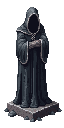
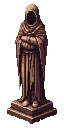
소품 아홉을 «그 색으로» 굽고 필터를 지운다 — 분칠을 그만둔다 (V-161)
병수님 2026-08-30 08:33 「에셋 픽셀랩 써서 제대로 뽑아라, 맵에 오브젝트들
둥둥 떠 있는 거 좀 조치하고」.

수로 먼저 확인: 소품은 전부 파랗게 구워져 있었고(R−B 기둥 −13.9 · 항아리 −27.5)
바닥은 따뜻했다(+3.7~+31.7). 그런데 상자 +47.0 · 화로 +51.8 은 따뜻했다 —
그 둘만 제 색을 맨 앞 대문자로 세웠기 때문이다. 원인은 프롬프트에 있었다.

· decor.py 에 TONE_WARM 을 세우고 소품 아홉을 재굽기 → R−B +22~+41 (바닥 띠 안)
· hs/main.js 의 PROP_WARM 필터 제거 — 화면에서 덧칠하지 않는다
· ONE 에 바닥판 부정어를 옮겨 wall.png 의 풀 154px → 0px
· tools/hs_warmcheck.py — 따뜻함 띠 · 바닥 대비 · G−B 분홍 가드. 최종 9/9,
  같은 자로 1차(주황) 굽기는 0/9. 만드는 동안 자가 세 번 틀렸고 그때마다
  문턱을 미는 대신 자를 갈았다.
· tools/hs_prop_shot.mjs — 소품을 한 줄로 세워 색·접지를 보는 컷

★ 정직하게: 「둥둥 뜬다」는 이번 굽기가 고친 게 아니다. 옛/새 에셋의 바닥판
벌어짐이 4.2% vs 3.1% 로 이미 작았다 — 진짜 원인은 그림자 놓는 자리였고
8b129f0 이 이미 닫았다. 굽기가 고친 것은 색과 wall 의 풀이다.

diff --git a/hs/main.js b/hs/main.js
@@ -763,7 +763,12 @@ function spriteFoot(im, key) {
   return box;
 }
 
-const PROP_WARM = "sepia(0.9) saturate(1.55) hue-rotate(-12deg)";
+// ★★ V-160 — `PROP_WARM` 필터를 **지웠다**. 병수님 2026-08-30 08:33:
+//   「에셋 픽셀랩 써서 제대로 뽑아라」. 여태 소품 아홉 장을 **찬 회색으로 굽고**
+//   화면에서 sepia 로 덧칠해 왔다 — 그건 고침이 아니라 분칠이고, 밝기까지 눌러 탁해진다.
+//   이제 `decor.py --warm` 이 그 색으로 **처음부터 굽는다**(구운 뒤 R−B: 기둥 −13.9→+31.1 ·
+//   항아리 −27.5→+31.5 · 관 −23.2→+22.2 · 잡석 −21.0→+39.5 — 바닥 띠 +4~+32 안).
+//   판정은 `tools/hs_warmcheck.py`(따뜻함 띠 · 바닥 대비 · 분홍 가드) 가 9/9 로 했다.
 function drawProps() {
   const vis = G.props.filter((pr) => onScreen(pr.x, pr.y, 200));
   vis.sort((a, b) => a.y - b.y);
@@ -778,15 +783,7 @@ function drawProps() {
     ctx.globalAlpha = 0.42; ctx.fillStyle = "#000";
     ctx.beginPath(); ctx.ellipse(sx, sy, rx, Math.min(rx * 0.4, pr.h * 0.18), 0, 0, 6.283); ctx.fill();
     ctx.globalAlpha = 1;
-    // ★ V-159 — V-158 이 «찬 회색 돌»을 계단 테두리에서만 고쳤다. 같은 병이 소품 전부에
-    //   있었다 — 화면에서 재보니 누운 기둥 R−B +2 · 항아리 −6(파랑이다) 인데
-    //   바닥은 +21~31 이라, 소품만 따뜻한 방 안에서 푸른기로 떠 있었다.
-    //   밝기는 건드리지 않고(이미 어둡다) 색조만 따뜻한 돌로 태운다.
-    //   불을 달고 오는 화로(brazier)는 뺀다 — 거기에 쓰면 불꽃이 죽는다.
-    //   ([[carry-fixes-forward]] — 한 번 고친 규칙을 새 요소에 안 옮긴 바로 그 결이다.)
-    if (!pr.brazier) ctx.filter = PROP_WARM;
     ctx.drawImage(im, pr.x - w / 2, pr.y - pr.h, w, pr.h);
-    ctx.filter = "none";
   }
 }
 

diff --git a/tools/pixellab/decor.py b/tools/pixellab/decor.py
@@ -27,11 +27,39 @@ for _a in sys.argv[1:]:
     if _a.startswith("--out="):
         OUT = os.path.abspath(os.path.join(ROOT, _a[6:]))
 
-TONE = ("MEDIUM GREY STONE AND BONE, desaturated, moderate contrast, evenly lit, "
-        "no vignette, no shadows baked in, "
-        "absolutely no blue, no purple, no violet, no teal, no green, "
-        "Diablo 2 crypt, grim gothic pixel art")
-ONE  = ("ONE single object only, centered, transparent background, "
+# ── 색 ──────────────────────────────────────────────────────────────────────
+# ★★ V-160(병수님 2026-08-30 08:33 「에셋 픽셀랩 써서 제대로 뽑아라」) —
+#   지금까지 열 장을 **찬 회색**으로 구워 놓고 화면에서 `PROP_WARM` 필터로 덧칠해 왔다.
+#   그건 고침이 아니라 **분칠**이다. 소품 R−B 를 재 보면 사실이 그대로 나온다:
+#       바닥  crypt +3.7 · bone +31.7 · rot +31.2   ← 따뜻하다
+#       소품  기둥 −13.9 · 항아리 −27.5 · 관 −23.2 · 잡석 −21.0   ← **파랗다**
+#   그런데 같은 파이프라인으로 구운 상자 +47.0 · 화로 +51.8 은 따뜻하다.
+#   갈린 자리는 하나뿐이다 — **그 둘만 제 색을 맨 앞 대문자로 세웠다.**
+#   그래서 `--warm` 은 공용 회색을 버리고 상자가 통한 그 꼴을 그대로 쓴다.
+#   (「grey」를 남겨 두면 굽는 쪽이 그것을 청회색으로 읽는다 — 낱말째 뺀다.)
+TONE_COLD = ("MEDIUM GREY STONE AND BONE, desaturated, moderate contrast, evenly lit, "
+             "no vignette, no shadows baked in, "
+             "absolutely no blue, no purple, no violet, no teal, no green, "
+             "Diablo 2 crypt, grim gothic pixel art")
+# ★ 1차 --warm 이 **넘어갔다**(09:4x): R−B 를 +47~+79 로 올렸는데 바닥은 +3.7~+31.7 이다.
+#   컷을 열어 보니 벽이 붉은 벽돌 · 누운 기둥이 주황 파이프 · 해골이 금박이 됐다.
+#   문턱만 두고 **천장을 안 둔** 자 탓이다 — 따뜻하게가 아니라 «바닥과 같은 온도로».
+TONE_WARM = ("WEATHERED BROWN GREY STONE AND OLD YELLOWED BONE, dusty warm grey, "
+             "muted earth tones, dark and grimy, low saturation, faded, "
+             "moderate contrast, evenly lit, no vignette, no shadows baked in, "
+             "absolutely no blue, no steel blue, no grey blue, no cold grey, "
+             "no purple, no violet, no teal, no green, "
+             "not orange, not gold, not yellow, not bright, not clean, not new, "
+             "Diablo 2 crypt, grim gothic pixel art")
+WARM = "--warm" in sys.argv
+TONE = TONE_WARM if WARM else TONE_COLD
+# ★ 굽는 쪽은 늘 **제 바닥판을 달아 보낸다**([[sprite-brings-its-own-ground]]).
+#   1차 굽기에서 항아리·잡석 밑에 흙·자갈이 딸려 왔다 — 그게 접지선을 아래로 끈다.
+#   상자 조리법에만 있던 부정어를 **전부에 옮긴다**([[carry-fixes-forward]]).
+ONE  = ("ONE single object only, centered, "
+        "floating alone on empty transparent background, "
+        "no grass, no dirt, no soil, no plants, no moss, no scattered pebbles, "
+        "no ground, no floor, no base under it, "
         "not a sheet, no grid of items, no duplicates, no text, no numbers")
 
 PARTS = {
@@ -39,13 +67,15 @@ PARTS = {
   "wall": (f"{TONE}, {ONE}, a straight horizontal section of ancient stone dungeon wall "
            "seen from slightly above, big rough blocks with deep mortar joints, "
            "flat top edge, the left and right ends are cut off mid-block so copies tile "
-           "edge to edge, no corners, no end caps, no doorway", 128, 64),
+           "edge to edge, no corners, no end caps, no doorway, "
+           "big irregular quarried stone blocks, NOT red brick, not brickwork", 128, 64),
   # ── 기둥 ── 세로로 선 것. 공간에 높이를 준다.
   "pillar": (f"{TONE}, {ONE}, a tall broken stone column standing upright, cracked shaft, "
              "chipped capital, crumbling base, vertical, full body", 64, 128),
   # ── 소품 넷 ── 사람이 살았던(죽었던) 자리라는 표시
   "coffin": (f"{TONE}, {ONE}, a heavy stone sarcophagus lying on the ground seen from above "
-             "at an angle, cracked lid slightly pushed aside, carved edge", 96, 64),
+             "at an angle, cracked lid slightly pushed aside, carved edge, "
+             "solid carved STONE, not wooden planks", 96, 64),
   "bones":  (f"{TONE}, {ONE}, a small pile of pale skulls and bones heaped on the ground, "
              "seen from above at an angle, low and wide", 64, 48),
   "brazier": (f"{TONE}, {ONE}, an iron brazier bowl on three legs with dim orange embers "
@@ -57,12 +87,20 @@ PARTS = {
   #     **누운 것의 생김새**를 말해야 한다 — 「쓰러진 나무처럼」.
   "column2": (f"{TONE}, {ONE}, a toppled stone column lying flat on the ground like a felled "
               "tree trunk, broken apart into three round drum segments that lie end to end "
-              "with gaps between them, seen from above at an angle, long and low, horizontal",
+              "with visible gaps between them, cracked stone, NOT a smooth pipe, not a tube, "
+              "not a log, not wood, seen from above at an angle, long and low, horizontal",
               96, 48),
   #   ★ 「skeleton」 하나만 쓰면 서 있는 해골이 온다 — **누워 흩어진 것**임을 말한다.
+  #   ★ V-160 2차 — 공용 TONE_WARM 의 「dark and grimy」가 **뼈까지 태웠다**(밝기 −36%,
+  #     어두운 방에서 안 읽힌다). 뼈는 밝아야 하는 것이니 상자·계단처럼 제 색을 앞에 세운다.
   "bones2": (f"{TONE}, {ONE}, a single human skeleton sprawled flat on its back on the ground, "
              "ribcage open, arms flung out to the sides, skull turned aside, seen from above "
-             "at an angle, spread wide and flat", 64, 48),
+             "at an angle, spread wide and flat, "
+             # ★ 3차: 제 색("PALE IVORY")을 앞에 세웠더니 **분홍 해골**이 왔다(G 꺼짐 +21).
+             #   형제인 bones 는 공용 TONE_WARM 으로 크림색이 잘 나왔으니 그리로 되돌리고,
+             #   「어둡지 않게」만 덧붙인다 — TONE_WARM 의 "dark and grimy" 가 뼈를 태웠던 것.
+             "pale weathered bone, light coloured against the dark floor, "
+             "not dark, not black, not burnt, not pink, not red, not magenta", 64, 48),
   #   ★ 항아리는 **불이 없다** — 화로와 갈리는 자리가 그것이다.
   "urn": (f"{TONE}, {ONE}, a cracked stone burial urn standing upright on the ground, "
           "round wide belly, narrow neck, heavy chipped lid tilted on top, "
@@ -102,9 +140,22 @@ PARTS = {
              "no grass, no dirt, no plants, no moss, no railing, no door, no arch, no text",
              72, 72),
   #   ★ 석상은 기둥과 키가 같아 **머리 없는 사람 모양**이라야 갈린다.
-  "statue": (f"{TONE}, {ONE}, a weathered stone statue of a hooded mourning figure standing "
-             "on a square plinth, the head broken off leaving a jagged stump at the neck, "
-             "robes carved in deep folds, arms crossed over the chest, vertical, full body",
+  #   ★ V-160 — 공용 TONE_WARM 으로도 석상만 **찬 회색**으로 왔다(R−B +17.4, 아홉 중 꼴찌).
+  #     화면에 세워 보니 따뜻한 바닥 위에서 저 혼자 파랗게 떴다. 상자·계단이 통한 꼴대로
+  #     **제 색을 맨 앞 대문자로** 세운다 — 공용 회색을 덮는 자리가 거기다.
+  "statue": ("WEATHERED WARM BROWN SANDSTONE, dusty tan stone, muted earth tones, "
+             "dark and grimy, low saturation, faded, moderate contrast, evenly lit, "
+             "no vignette, no shadows baked in, "
+             "absolutely no blue, no steel blue, no grey blue, no cold grey, no slate, "
+             "no purple, no violet, no teal, no green, "
+             "not orange, not gold, not bright, not clean, "
+             f"Diablo 2 crypt, grim gothic pixel art, {ONE}, "
+             "a weathered stone statue of a hooded mourning figure standing "
+             "on a square plinth, the head COMPLETELY broken off and missing, only a jagged "
+             "broken stump at the neck, headless, no face, no hood on top, "
+             "robes carved in deep folds, arms crossed over the chest, vertical, full body, "
+             "the plinth sits on nothing, empty transparent background below it, "
+             "no grass, no green, no plants, no weeds, no moss, no soil, no ground",
              64, 128),
 }
 

diff --git a/tools/hs_warmcheck.py b/tools/hs_warmcheck.py
@@ -1,0 +1,86 @@
+#!/usr/bin/env python3
+"""V-160 — «따뜻하게 구웠나»를 눈이 아니라 수로 판정한다.
+
+병수님 2026-08-30 08:33: 「에셋 픽셀랩 써서 제대로 뽑아라」.
+지금까지는 찬 회색으로 굽고 화면에서 `PROP_WARM` 필터로 덧칠했다 — 그건 분칠이다.
+
+자: 불투명하고 보이는 픽셀의 평균 **R−B**.
+  · 바닥 crypt +3.7 · bone +31.7 · rot +31.2  ← 방이 이 온도다
+  · 제 색을 맨 앞에 세워 구운 상자 +47.0 · 화로 +51.8  ← 통한 것들
+  · 공용 회색으로 구운 나머지 −8 ~ −27          ← 파랗다
+문턱 +20 — 바닥의 따뜻한 쪽(bone/rot)에 닿는 자리. [[floor-far-from-threshold]]
+
+밝기도 같이 본다. 색만 맞추고 어두워지면 «분칠»과 같은 병이다(필터가 밝기를 눌렀다).
+"""
+import glob, os, sys
+from PIL import Image
+
+# ★★ 1차 굽기(09:4x)가 이 자를 «통과»하고도 눈으로 보면 틀렸다 — R−B 를 +47~+79 로
+#   올려 놓고 8/9 OK 가 나왔다. 문턱만 있고 **천장이 없었던** 탓이다.
+#   목표는 「따뜻하게」가 아니라 **「바닥과 같은 온도로」** 다. 그러니 띠로 잰다:
+#       bone +31.7 · rot +31.2 · blood +20.3 · crypt +3.7  → 방의 띠는 대략 +4 ~ +32
+#   소품은 바닥보다 조금 더 따뜻해도 되니 위를 +42 까지 연다(상자 +47 은 나무라 예외).
+#   밝기도 양쪽으로 막는다 — 어두워지면 탁하고, 밝아지면 어두운 방에서 «떠오른다».
+WARM_MIN, WARM_MAX = 12.0, 42.0
+# ★ 밝기의 아래쪽은 «옛것 대비»로 재면 안 된다 — **옛것이 틀렸을 때** 틀린 것이 기준이 된다.
+#   bones2 옛값 148.9 는 「찬 흰색 해골」이라 목표가 아니다(형제 bones 는 115.3).
+#   어두워짐이 진짜 문제인 까닭은 하나뿐이다 — **어두운 바닥에서 안 보이는 것**.
+#   그러니 아래쪽은 바닥(crypt 밝기 43.0)과의 거리로 재고, 위쪽만 옛것 대비로 막는다
+#   (1차 굽기가 +44~+81% 로 «떠올랐던» 그 자리).
+FLOOR_LUM, LUM_MARGIN_MIN = 43.0, 25.0
+LUM_RISE_MAX = 0.25
+# ★★ 3차에서 이 자가 **분홍 해골을 통과시켰다**(bones2 R−B +24.3 → 「OK」인데 눈으로는 분홍).
+#   R−B 만 보면 «붉다»와 «따뜻하다»를 못 가른다 — 갈리는 자리는 **G** 다.
+#   돌·뼈 같은 자연색은 G 가 R 과 B 의 가운데쯤에 온다. 분홍/자주는 G 가 그 아래로 꺼진다.
+#   [[pixel-verification-calibration]] — 자는 **틀린 표본으로** 맞춘다.
+#   ★ 처음엔 (R+B)/2 − G 로 재고 문턱을 10 → 14 로 밀었는데, 멀쩡한 갈색이 자꾸 문턱에
+#     붙었다(column2 10.2 · statue 14.1 vs 분홍 20.9). **문턱을 미는 건 답이 아니다** —
+#     자를 바꿔야 한다. 갈색과 분홍을 진짜로 가르는 것은 **G 와 B 의 순서**다:
+#         분홍 bones2(3차)  G−B = −8.7   ← G 가 B 아래로 꺼진다(자홍)
+#         갈색 column2 +9.6 · statue +6.2 · bones +10.9 · urn +12.9
+#     흙빛 돌은 R > G > B 로 곧게 내려간다. G 가 B 밑으로 가면 그건 돌색이 아니다.
+GB_MIN = 2.0             # G − B 가 이보다 작으면 분홍/자주
+
+def stat(p):
+    im = Image.open(p).convert("RGBA"); px = im.load()
+    rs = gs = bs = ls = n = 0
+    for y in range(im.height):
+        for x in range(im.width):
+            r, g, b, a = px[x, y]
+            lum = 0.299 * r + 0.587 * g + 0.114 * b
+            if a > 24 and lum > 20:
+                rs += r; gs += g; bs += b; ls += lum; n += 1
+    if not n: return None
+    return {"r": rs/n, "g": gs/n, "b": bs/n, "rb": (rs-bs)/n, "lum": ls/n, "n": n}
+
+if __name__ == "__main__":
+    new_dir = sys.argv[1] if len(sys.argv) > 1 else "tmp/decorbake_warm"
+    old_dir = "assets/decor"
+    rows, ok, bad = [], [], []
+    for p in sorted(glob.glob(os.path.join(new_dir, "*.png"))):
+        k = os.path.basename(p)
+        ns = stat(p)
+        if not ns: continue
+        op = os.path.join(old_dir, k)
+        os_ = stat(op) if os.path.exists(op) else None
+        drop = (os_["lum"] - ns["lum"]) / os_["lum"] if os_ and os_["lum"] else 0.0
+        warm_ok = WARM_MIN <= ns["rb"] <= WARM_MAX
+        margin = ns["lum"] - FLOOR_LUM
+        sag = ns["g"] - ns["b"]
+        verdict = ("분홍" if sag < GB_MIN else
+                   "차갑다" if ns["rb"] < WARM_MIN else
+                   "너무뜨겁다" if ns["rb"] > WARM_MAX else
+                   "바닥에묻힘" if margin < LUM_MARGIN_MIN else
+                   "너무밝다" if drop < -LUM_RISE_MAX else "OK")
+        rows.append((k, os_["rb"] if os_ else float("nan"), ns["rb"],
+                     os_["lum"] if os_ else float("nan"), ns["lum"], drop, margin, sag, verdict))
+        (ok if verdict == "OK" else bad).append(k)
+
+    print(f"{'에셋':<16}{'옛R-B':>8}{'새R-B':>8}{'옛밝기':>8}{'새밝기':>8}{'밝기변화':>9}{'바닥대비':>9}{'G-B':>7}  판정")
+    for k, orb, nrb, ol, nl, dr, mg, sg, v in rows:
+        print(f"{k:<16}{orb:>8.1f}{nrb:>8.1f}{ol:>8.1f}{nl:>8.1f}{-dr*100:>8.1f}%{mg:>9.1f}{sg:>7.1f}  {v}")
+    print(f"\n띠: R−B +{WARM_MIN:.0f}~+{WARM_MAX:.0f} (바닥 +4~+32) · "
+          f"바닥({FLOOR_LUM:.0f})대비 ≥ +{LUM_MARGIN_MIN:.0f} · 밝기상승 ≤ +{LUM_RISE_MAX*100:.0f}% "
+          f"· G−B ≥ {GB_MIN:.0f}")
+    print(f"통과 {len(ok)}/{len(rows)}" + (f"  · 물림: {' '.join(bad)}" if bad else ""))
+    sys.exit(1 if bad else 0)
